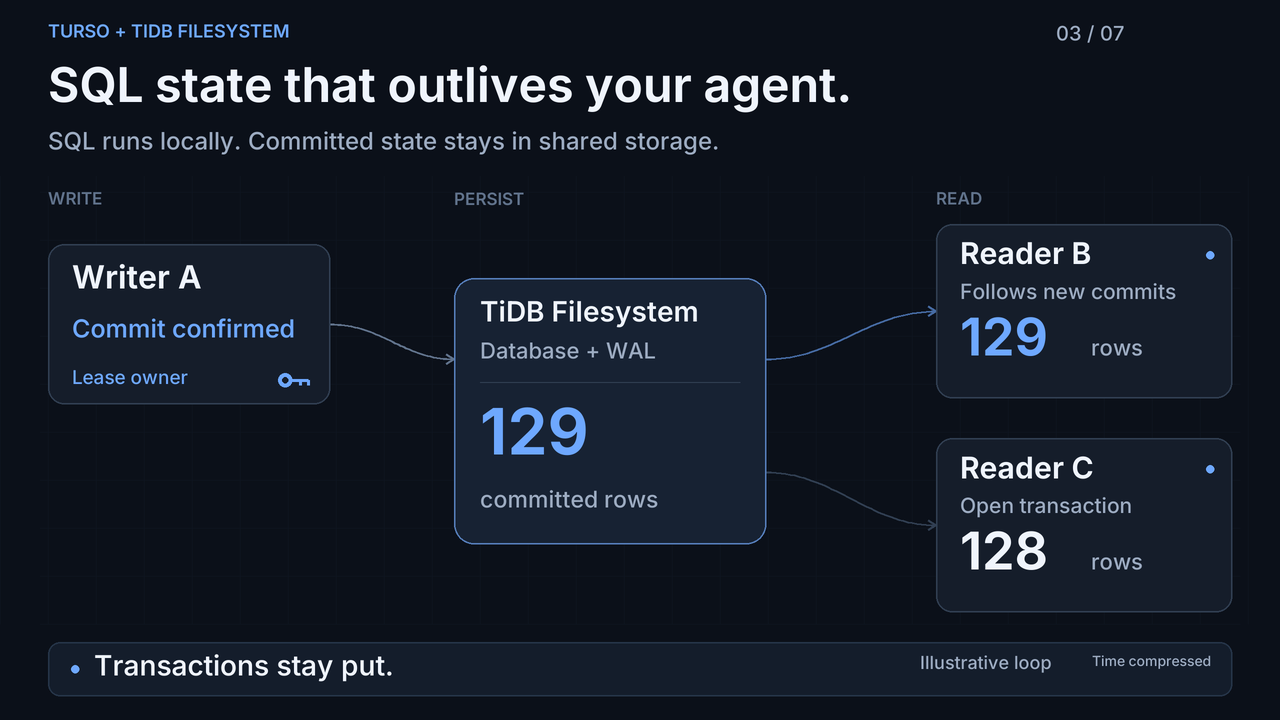
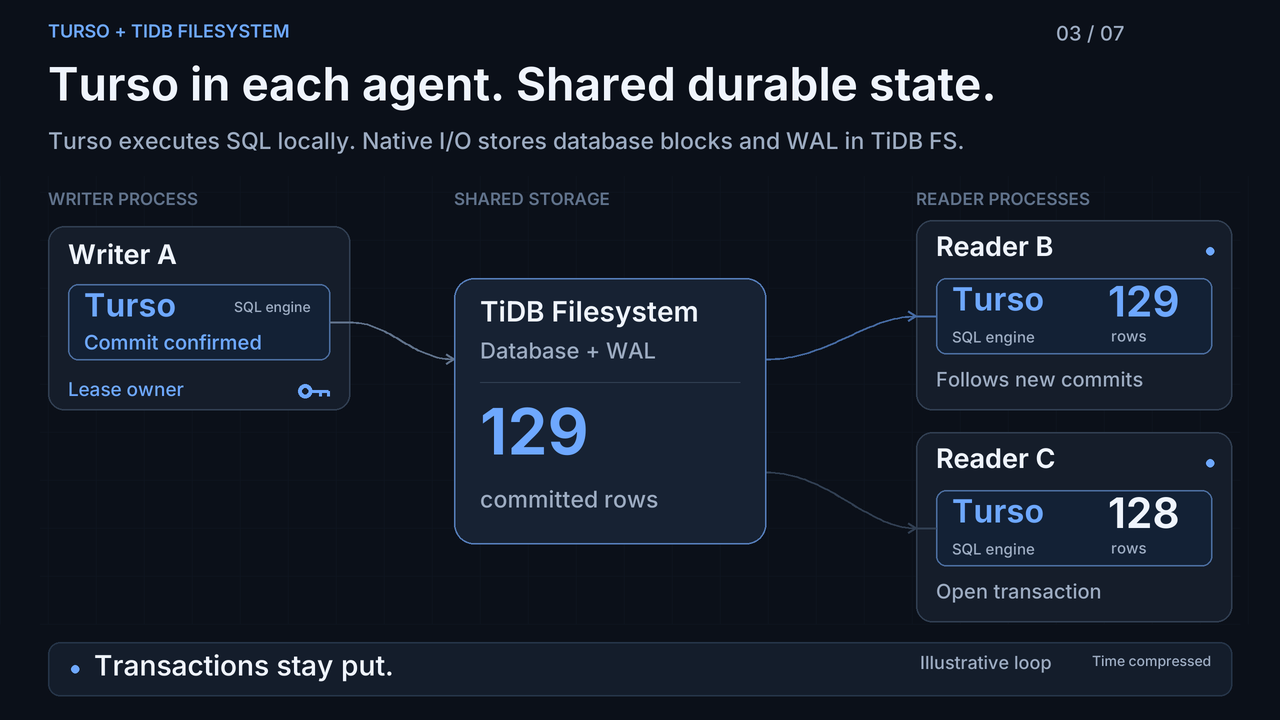
Show embedded Turso engines throughout the README animation

diff --git a/docs/animation/render.py b/docs/animation/render.py
@@ -83,10 +83,10 @@ def curve(points, u):
 
 
 CHANNELS = {
-    "a": [(330, 324), (381, 324), (404, 359), (454, 359)],
-    "d": [(330, 540), (382, 540), (401, 472), (454, 472)],
-    "b": [(766, 359), (834, 359), (868, 311), (936, 311)],
-    "c": [(766, 472), (834, 472), (868, 525), (936, 525)],
+    "a": [(350, 322), (390, 322), (412, 359), (454, 359)],
+    "d": [(350, 534), (390, 534), (412, 472), (454, 472)],
+    "b": [(766, 359), (828, 359), (866, 316), (916, 316)],
+    "c": [(766, 472), (828, 472), (866, 528), (916, 528)],
 }
 
 
@@ -113,6 +113,19 @@ def key(p, x, y, color=BLUE):
     p.line([(x + 6, y), (x + 6, y + 5)], color, 3)
 
 
+def engine(p, x, y, width, action=None, rows=None, color=BLUE):
+    """A real embedded engine boundary inside the agent's process card."""
+    p.box((x, y, width, 76), fill=(19, 33, 53), outline=mix(BORDER, BLUE, 0.45), radius=10)
+    p.text((x + 16, y + 9), "Turso", 32, BLUE, 650)
+    if rows is None:
+        p.text((x + width - 96, y + 17), "SQL engine", 14, MUTED)
+        p.text((x + 16, y + 50), action, 20, color, 550)
+    else:
+        p.text((x + 16, y + 53), "SQL engine", 15, MUTED)
+        p.text((x + width - 104, y + 7), str(rows), 42, color, 650)
+        p.text((x + width - 101, y + 55), "rows", 15, MUTED)
+
+
 def state(t):
     beat = next((i for i, (a, b, _) in enumerate(BEATS) if a <= t < b), len(BEATS) - 1)
     return {"beat": beat, "caption": BEATS[beat][2],
@@ -132,12 +145,12 @@ def render(t):
     for y in range(192, 625, 48):
         p.line([(40, y), (1240, y)], (15, 22, 33), 0.5)
     p.text((48, 24), "TURSO + TIDB FILESYSTEM", 18, BLUE, 600)
-    p.text((48, 65), "SQL state that outlives your agent.", 48, TEXT, 650)
-    p.text((48, 131), "SQL runs locally. Committed state stays in shared storage.", 24, MUTED)
+    p.text((48, 65), "Turso in each agent. Shared durable state.", 46, TEXT, 650)
+    p.text((48, 131), "Turso executes SQL locally. Native I/O stores database blocks and WAL in TiDB FS.", 23, MUTED)
     p.text((1056, 25), f"0{s['beat'] + 1} / 07", 20, MUTED)
-    p.text((48, 192), "WRITE", 17, DIM, 600)
-    p.text((454, 192), "PERSIST", 17, DIM, 600)
-    p.text((936, 192), "READ", 17, DIM, 600)
+    p.text((48, 192), "WRITER PROCESS", 17, DIM, 600)
+    p.text((454, 192), "SHARED STORAGE", 17, DIM, 600)
+    p.text((916, 192), "READER PROCESSES", 17, DIM, 600)
 
     channel(p, "a", DIM if t < 9.5 else mix(BG, AMBER, 0.4))
     if t >= 9.5:
@@ -146,8 +159,8 @@ def render(t):
     channel(p, "c", BORDER if t < 20.5 else mix(BG, BLUE, 0.6))
 
     # Writer identities stay in place across loss and replacement.
-    p.box((48, 244, 282, 160), outline=BORDER if t < 9.5 else mix(BORDER, AMBER, 0.65))
-    p.text((72, 264), "Writer A", 32, TEXT, 650)
+    p.box((48, 226, 302, 184), outline=BORDER if t < 9.5 else mix(BORDER, AMBER, 0.65))
+    p.text((68, 243), "Writer A", 27, TEXT, 650)
     if t < 3:
         action, color = "Runs SQL locally", MUTED
     elif t < 6.5:
@@ -160,16 +173,20 @@ def render(t):
         action, color = "COMMIT +1", AMBER
     else:
         action, color = "Write refused", AMBER
-    p.text((72, 318), action, 25, color, 550)
-    p.text((72, 370), "Lease owner" if t < 9.5 else "Lease expiring" if t < 14.5 else "Old session", 19, BLUE if t < 9.5 else MUTED)
+    engine(p, 68, 284, 262, action=action, color=color)
+    p.line([(330, 322), (350, 322)], DIM if t < 9.5 else AMBER, 2)
+    p.text((68, 382), "Lease owner" if t < 9.5 else "Lease expiring" if t < 14.5 else "Old session", 19, BLUE if t < 9.5 else MUTED)
 
     if t >= 9.5:
-        p.box((48, 462, 282, 156), outline=BORDER if t < 14.5 else mix(BORDER, BLUE, 0.7))
-        p.text((72, 482), "Writer D", 32, TEXT, 650)
-        p.text((72, 532), "Waiting" if t < 14.5 else "COMMIT +1" if t < 17.5 else "Continues writing", 25, MUTED if t < 14.5 else BLUE, 550)
-        p.text((72, 584), "After lease expiry" if t < 14.5 else "Lease owner", 19, MUTED if t < 14.5 else BLUE)
-    key_y = 380 + (598 - 380) * ease((t - 14.5) / 0.5)
-    key(p, 294, key_y, BLUE if t < 9.5 or t >= 14.5 else AMBER)
+        p.box((48, 438, 302, 184), outline=BORDER if t < 14.5 else mix(BORDER, BLUE, 0.7))
+        p.text((68, 455), "Writer D", 27, TEXT, 650)
+        engine(p, 68, 496, 262, action="Waiting" if t < 14.5 else "COMMIT +1" if t < 17.5 else "Continues writing", color=MUTED if t < 14.5 else BLUE)
+        p.line([(330, 534), (350, 534)], DIM if t < 14.5 else BLUE, 2)
+        p.text((68, 594), "After lease expiry" if t < 14.5 else "Lease owner", 19, MUTED if t < 14.5 else BLUE)
+    transfer = ease((t - 14.5) / 0.5)
+    key_y = 391 + (603 - 391) * transfer
+    key_x = 314 + 120 * transfer * (1 - transfer)
+    key(p, key_x, key_y, BLUE if t < 9.5 or t >= 14.5 else AMBER)
 
     # The database + WAL remain available when compute stops.
     p.box((454, 278, 312, 266), fill=(23, 34, 51), outline=mix(BORDER, BLUE, 0.6), radius=20)
@@ -180,14 +197,14 @@ def render(t):
     p.text((480, 490), "committed rows", 23, MUTED)
 
     for y, name, subtitle, rows, color in [
-        (224, "Reader B", "Follows new commits", s["following"], BLUE),
-        (438, "Reader C", "Open transaction" if t < 20.5 else "Transaction ended", s["transaction"], TEXT if t < 21.85 else BLUE),
+        (220, "Reader B", "Follows new commits", s["following"], BLUE),
+        (432, "Reader C", "Open transaction" if t < 20.5 else "Transaction ended", s["transaction"], TEXT if t < 21.85 else BLUE),
     ]:
-        p.box((936, y, 296, 174))
-        p.text((960, y + 18), name, 30, TEXT, 650)
-        p.text((960, y + 59), subtitle, 21, MUTED)
-        p.text((960, y + 93), str(rows), 52, color, 650)
-        p.text((1091, y + 119), "rows", 22, MUTED)
+        p.box((916, y, 316, 190))
+        p.text((936, y + 16), name, 27, TEXT, 650)
+        engine(p, 936, y + 58, 276, rows=rows, color=color)
+        p.line([(916, y + 96), (936, y + 96)], mix(BG, BLUE, 0.6) if name == "Reader B" or t >= 20.5 else BORDER, 2)
+        p.text((936, y + 151), subtitle, 20, MUTED)
         # Same processes persist; ending a transaction is not a process restart.
         p.circle(1210, y + 31, 4, BLUE)
 

diff --git a/docs/animation/TREATMENT.md b/docs/animation/TREATMENT.md
@@ -2,6 +2,11 @@
 
 The viewer should remember: agents can be replaced while their committed SQL
 state stays available to readers and the next writer.
+Each agent embeds its own **Turso SQL engine**. TiDB Filesystem persists the
+shared database blocks and WAL. Show Turso as a nested component in every
+writer and reader process, with native I/O connecting those engines to storage.
+The headline names Turso explicitly; process roles and storage have separate
+visual boundaries so local SQL execution is visible throughout the animation.
 
 ## Structure
 
@@ -28,6 +33,9 @@ transaction stays pinned. The ending lets that transaction finish and catch up.
 - Primary accent: blue = committed data / active ownership. Amber = unavailable
   or refused. Neutral text = fixed snapshot. Text and shapes reinforce colors.
 - Persistent IDs: writer A, writer D, TiDB FS, following reader B, transaction C.
+- Engine cards: a Turso component inside A, D, B and C, retained across all
+  process states. Writes originate from writer engines; reader results appear
+  inside their Turso engines. Storage never becomes a SQL execution service.
 - Data: illustrative row counts 128 → 129 → 130. Time is compressed. This is an
   explanatory animation, not a live recording or latency chart.
 - The old writer must be refused only after the replacement has acquired the

diff --git a/README.md b/README.md
@@ -11,10 +11,13 @@ An agent can commit its progress, readers can follow new results, and another
 agent can reopen the same data when the original sandbox is replaced. SQL runs
 locally in each process; committed state lives in shared storage.
 
-![Writer A commits SQL state to TiDB Filesystem. Reader B follows new commits while Reader C keeps its transaction snapshot. Writer D takes over after lease expiry; the old writer is refused. Reader C catches up after ending its transaction.](assets/overview.gif)
+![Each writer and reader process embeds a Turso SQL engine. Native I/O connects those engines to database blocks and WAL in TiDB Filesystem. Reader B follows commits while Reader C keeps its snapshot. Writer D takes over; the old writer is refused.](assets/overview.gif)
 
 *Illustrative animation; timing is compressed.*
 [Static diagram](assets/overview.png) · [Real remote verification](results/follow.md)
+
+Each agent embeds **Turso to execute SQL**; **TiDB Filesystem stores the shared
+database and WAL**. Native I/O connects the engines to that durable state.
 
 ## Why use it?
 

diff --git a/docs/animation/README.md b/docs/animation/README.md
@@ -5,6 +5,10 @@ asynchronous readers, transaction snapshots and writer handoff. Counts and
 timing are illustrative. Actual measurements are in the
 [following report](../../results/follow.md) and [handoff report](../../results/handoff.md).
 
+Each process card contains a distinct Turso SQL engine. Native I/O connects the
+engines to shared database blocks and WAL in TiDB Filesystem, making the compute
+and storage roles explicit throughout the animation.
+
 The [treatment](TREATMENT.md) records the story, semantic colors, causal order
 and reference revision. All geometry and motion are original, drawn from
 `render(t)` with no playback history, random inputs or remote assets at render
